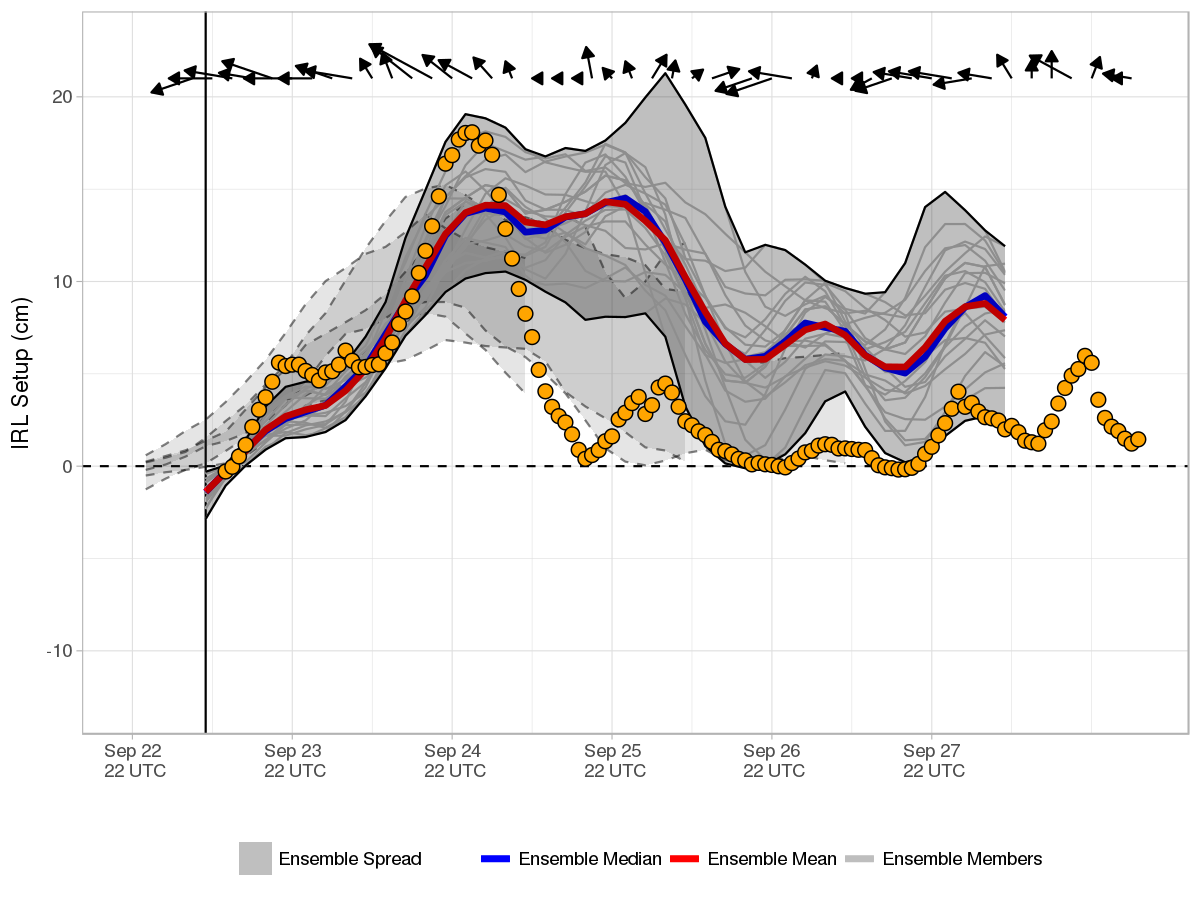
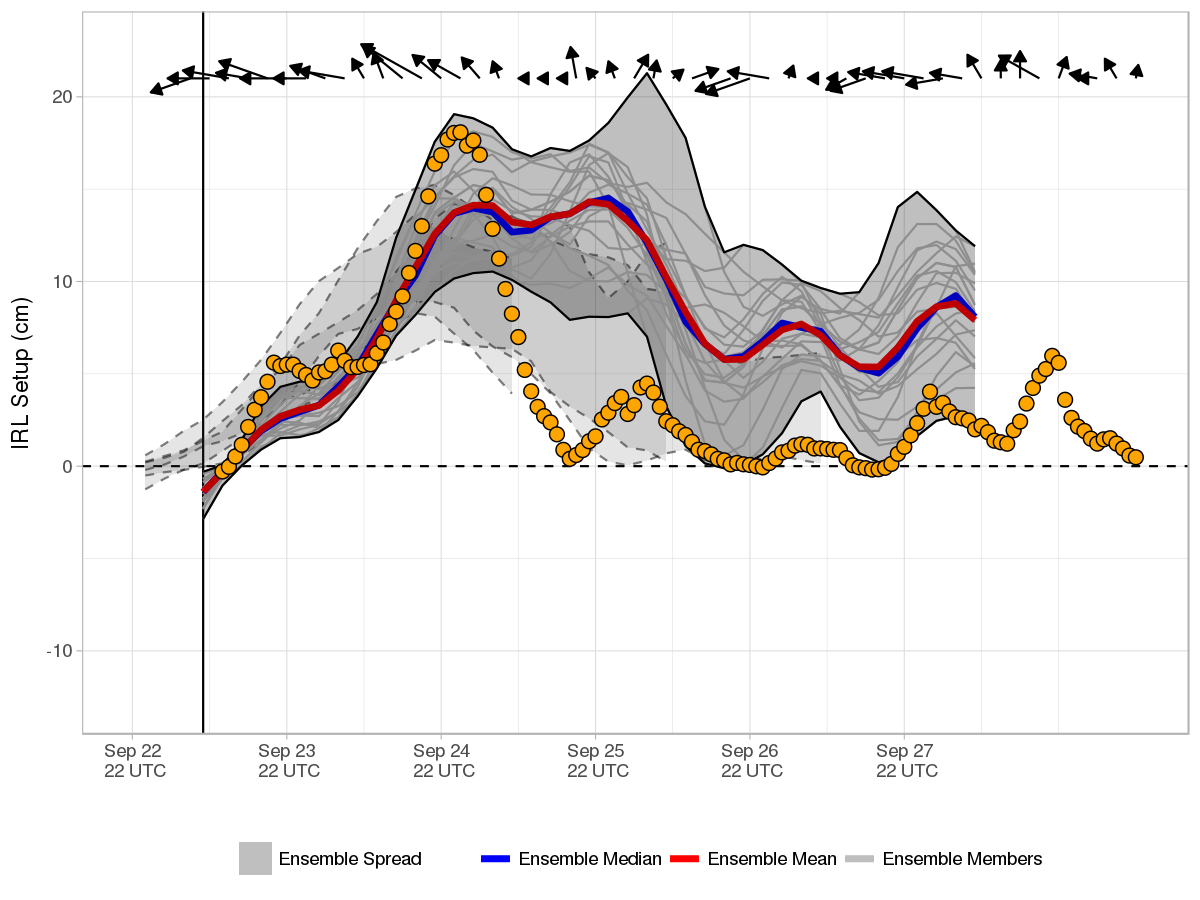
Forecast Update 2020092906

diff --git a/docs/index.md b/docs/index.md
@@ -1,9 +1,9 @@
-Current Forecast 2020-09-29 00Z
+Current Forecast 2020-09-29 06Z
 -----------------------------------
 
 [![](img/raw_setup.png)](https://fit-winds.github.io/IRLSetup/img/raw_setup.png)
 
-> Forecast valid 2020-09-29 01:35:41.
+> Forecast valid 2020-09-29 06:59:58.
 
 Explanation
 -----------
